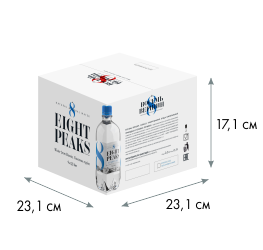
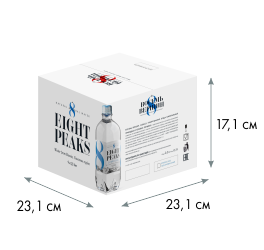
Catalog tabs

diff --git a/app/index.html b/app/index.html
@@ -178,17 +178,17 @@
             <div class="row">
                 <div class="col-lg-3 catalog-carousel">
                     <ul class="catalog-carousel__list">
-                        <li class="catalog-carousel__item catalog-carousel__item--active"><img src="images/dest/cat_menu_01.png" alt="" class="catalog-carousel__img"></li>
-                        <li class="catalog-carousel__item"><img src="images/dest/cat_menu_02.png" alt="" class="catalog-carousel__img"></li>
-                        <li class="catalog-carousel__item"><img src="images/dest/cat_menu_03.png" alt="" class="catalog-carousel__img"></li>
-                        <li class="catalog-carousel__item"><img src="images/dest/cat_menu_04.png" alt="" class="catalog-carousel__img"></li>
+                        <li class="catalog-carousel__item catalog-carousel__item--active js-tab-trigger_box" data-href="#content_box_1"><img src="images/dest/cat_menu_01.png" alt="" class="catalog-carousel__img"></li>
+                        <li class="catalog-carousel__item js-tab-trigger_box" data-href="#content_box_2"><img src="images/dest/cat_menu_02.png" alt="" class="catalog-carousel__img"></li>
+                        <li class="catalog-carousel__item js-tab-trigger_box" data-href="#content_box_3"><img src="images/dest/cat_menu_03.png" alt="" class="catalog-carousel__img"></li>
+                        <li class="catalog-carousel__item js-tab-trigger_box" data-href="#content_box_4"><img src="images/dest/cat_menu_04.png" alt="" class="catalog-carousel__img"></li>
                     </ul>
                 </div>
                 <div class="col-lg-8 ml-auto">
-                    <div class="catalog__content catalog__content--show" id="content_1">
+                    <div class="catalog__content catalog__content--show" id="content_box_1">
                         <div class="section-title catalog__section-title">
                             <h2 class="section-title__header catalog__section-header">Каталог</h2>
-                            <span class="section-title__under-header">Восемь вершин. Кавказ. Вода природная минеральная питьевая столовая.<br>
+                            <span class="section-title__under-header catalog__section-under-header">Восемь вершин. Кавказ. Вода природная минеральная питьевая столовая.<br>
                                 Гидрокарбонатная магниевая кальциевая.</span>
                         </div>
                         <div class="catalog-item">
@@ -201,7 +201,7 @@
                                     </div>                                
                                     <div class="catalog-item-elem">
                                         <span class="catalog-item-elem__img-header">6 х 0,5 л. / 5,12 кг.</span>
-                                        <img src="images/dest/cat_g_ng_05_pack.png" alt="" class="catalog-item__img">
+                                        <img src="images/dest/box_glass_ng_05.png" alt="" class="catalog-item__img">
                                         <span class="catalog-item-elem__img-desc">Групповая упаковка
                                             бутылок формата 0,5 л.</span>
                                     </div>                                
@@ -213,7 +213,7 @@
                                     </div>                                
                                     <div class="catalog-item-elem">
                                         <span class="catalog-item-elem__img-header">12 х 0,33 л. / 7,33 кг.</span>
-                                        <img src="images/dest/cat_g_ng_033_pack.png" alt="" class="catalog-item__img">
+                                        <img src="images/dest/box_glass_ng_033.png" alt="" class="catalog-item__img">
                                         <span class="catalog-item-elem__img-desc">Групповая упаковка
                                             бутылок формата 0,33л.</span>
                                     </div>                                
@@ -221,14 +221,14 @@
                             </div>
                         </div>
                     </div>
-                    <div class="catalog__content" id="content_2">
+                    <div class="catalog__content" id="content_box_2">
                         <div class="section-title catalog__section-title">
                             <h2 class="section-title__header catalog__section-header">Каталог</h2>
-                            <span class="section-title__under-header">Восемь вершин. Кавказ. Вода природная минеральная питьевая столовая.<br>
+                            <span class="section-title__under-header catalog__section-under-header">Восемь вершин. Кавказ. Вода природная минеральная питьевая столовая.<br>
                                 Гидрокарбонатная магниевая кальциевая.</span>
                         </div>
                         <div class="catalog-item">
-                            <h3 class="catalog-item__header">Негазированная серия. Стекло</h3>
+                            <h3 class="catalog-item__header">Газированная серия. Стекло</h3>
                             <div class="row">
                                 <div class="col-lg-5">
                                     <div class="catalog-item-elem">
@@ -237,7 +237,7 @@
                                     </div>                                
                                     <div class="catalog-item-elem">
                                         <span class="catalog-item-elem__img-header">6 х 0,5 л. / 5,12 кг.</span>
-                                        <img src="images/dest/cat_g_ng_05_pack.png" alt="" class="catalog-item__img">
+                                        <img src="images/dest/box_glass_g_05.png" alt="" class="catalog-item__img">
                                         <span class="catalog-item-elem__img-desc">Групповая упаковка
                                             бутылок формата 0,5 л.</span>
                                     </div>                                
@@ -249,7 +249,7 @@
                                     </div>                                
                                     <div class="catalog-item-elem">
                                         <span class="catalog-item-elem__img-header">12 х 0,33 л. / 7,33 кг.</span>
-                                        <img src="images/dest/cat_g_ng_033_pack.png" alt="" class="catalog-item__img">
+                                        <img src="images/dest/box_glass_g_033.png" alt="" class="catalog-item__img">
                                         <span class="catalog-item-elem__img-desc">Групповая упаковка
                                             бутылок формата 0,33л.</span>
                                     </div>                                
@@ -257,14 +257,14 @@
                             </div>
                         </div>
                     </div>
-                    <div class="catalog__content" id="content_3">
+                    <div class="catalog__content" id="content_box_3">
                         <div class="section-title catalog__section-title">
                             <h2 class="section-title__header catalog__section-header">Каталог</h2>
-                            <span class="section-title__under-header">Восемь вершин. Кавказ. Вода природная минеральная питьевая столовая.<br>
+                            <span class="section-title__under-header catalog__section-under-header">Восемь вершин. Кавказ. Вода природная минеральная питьевая столовая.<br>
                                 Гидрокарбонатная магниевая кальциевая.</span>
                         </div>
                         <div class="catalog-item">
-                            <h3 class="catalog-item__header">Негазированная серия. Стекло</h3>
+                            <h3 class="catalog-item__header">Негазированная серия. Пластик</h3>
                             <div class="row">
                                 <div class="col-lg-5">
                                     <div class="catalog-item-elem">
@@ -273,7 +273,7 @@
                                     </div>                                
                                     <div class="catalog-item-elem">
                                         <span class="catalog-item-elem__img-header">6 х 0,5 л. / 5,12 кг.</span>
-                                        <img src="images/dest/cat_g_ng_05_pack.png" alt="" class="catalog-item__img">
+                                        <img src="images/dest/box_pet_ng_05.png" alt="" class="catalog-item__img">
                                         <span class="catalog-item-elem__img-desc">Групповая упаковка
                                             бутылок формата 0,5 л.</span>
                                     </div>                                
@@ -285,7 +285,7 @@
                                     </div>                                
                                     <div class="catalog-item-elem">
                                         <span class="catalog-item-elem__img-header">12 х 0,33 л. / 7,33 кг.</span>
-                                        <img src="images/dest/cat_g_ng_033_pack.png" alt="" class="catalog-item__img">
+                                        <img src="images/dest/box_pet_ng_039.png" alt="" class="catalog-item__img">
                                         <span class="catalog-item-elem__img-desc">Групповая упаковка
                                             бутылок формата 0,33л.</span>
                                     </div>                                
@@ -293,14 +293,14 @@
                             </div>
                         </div>
                     </div>
-                    <div class="catalog__content" id="content_4">
+                    <div class="catalog__content" id="content_box_4">
                         <div class="section-title catalog__section-title">
                             <h2 class="section-title__header catalog__section-header">Каталог</h2>
-                            <span class="section-title__under-header">Восемь вершин. Кавказ. Вода природная минеральная питьевая столовая.<br>
+                            <span class="section-title__under-header catalog__section-under-header">Восемь вершин. Кавказ. Вода природная минеральная питьевая столовая.<br>
                                 Гидрокарбонатная магниевая кальциевая.</span>
                         </div>
                         <div class="catalog-item">
-                            <h3 class="catalog-item__header">Негазированная серия. Стекло</h3>
+                            <h3 class="catalog-item__header">Газированная серия. Пластик</h3>
                             <div class="row">
                                 <div class="col-lg-5">
                                     <div class="catalog-item-elem">
@@ -309,7 +309,7 @@
                                     </div>                                
                                     <div class="catalog-item-elem">
                                         <span class="catalog-item-elem__img-header">6 х 0,5 л. / 5,12 кг.</span>
-                                        <img src="images/dest/cat_g_ng_05_pack.png" alt="" class="catalog-item__img">
+                                        <img src="images/dest/box_pet_g_05.png" alt="" class="catalog-item__img">
                                         <span class="catalog-item-elem__img-desc">Групповая упаковка
                                             бутылок формата 0,5 л.</span>
                                     </div>                                
@@ -321,7 +321,7 @@
                                     </div>                                
                                     <div class="catalog-item-elem">
                                         <span class="catalog-item-elem__img-header">12 х 0,33 л. / 7,33 кг.</span>
-                                        <img src="images/dest/cat_g_ng_033_pack.png" alt="" class="catalog-item__img">
+                                        <img src="images/dest/box_pet_g_039.png" alt="" class="catalog-item__img">
                                         <span class="catalog-item-elem__img-desc">Групповая упаковка
                                             бутылок формата 0,33л.</span>
                                     </div>                                
@@ -519,14 +519,18 @@
                             </svg>                             
                         </a>
                         <a class="social-icons__link" href="https://www.facebook.com/eightpeaks_water-113757986849715" target="_blank">
-                            <svg id="svg-icon-fb" viewBox="0 0 6.5 13" width="67" height="67">
-                                <path d="M4.215 2.437c.102-.135.347-.203.736-.203H6.5V0H4.266C3.25 0 2.556.241 2.184.724c-.373.482-.559 1.223-.559 2.221v1.32H0V6.5h1.625V13h2.438V6.5h2.209L6.5 4.266H4.063V3.148c0-.338.05-.575.152-.711z" fill-rule="evenodd" clip-rule="evenodd"></path>
-                            </svg>                          
+                            <svg version="1.1" id="Capa_1" xmlns="http://www.w3.org/2000/svg" xmlns:xlink="http://www.w3.org/1999/xlink" x="0px" y="0px"
+                                width="67" height="67" viewBox="0 0 97.75 97.75" style="enable-background:new 0 0 97.75 97.75;" xml:space="preserve"
+                                >
+                            <g>
+                                <path d="M48.875,0C21.882,0,0,21.882,0,48.875S21.882,97.75,48.875,97.75S97.75,75.868,97.75,48.875S75.868,0,48.875,0z
+                                    M67.521,24.89l-6.76,0.003c-5.301,0-6.326,2.519-6.326,6.215v8.15h12.641L67.07,52.023H54.436v32.758H41.251V52.023H30.229V39.258
+                                    h11.022v-9.414c0-10.925,6.675-16.875,16.42-16.875l9.851,0.015V24.89L67.521,24.89z"/>
+                            </g>
+                            </svg>                         
                         </a>
                         <a class="social-icons__link" href="https://www.instagram.com/eightpeaks_water/?hl=ru" target="_blank">
-                            <svg id="svg-icon-insta" viewBox="0 0 13 13" width="67" height="67">
-                                <path d="M12.822.178A.557.557 0 0 0 12.416 0H.584a.557.557 0 0 0-.406.178A.557.557 0 0 0 0 .584v11.832c0 .152.059.288.178.406A.56.56 0 0 0 .584 13h11.832a.56.56 0 0 0 .406-.178.557.557 0 0 0 .178-.406V.584a.557.557 0 0 0-.178-.406zM4.9 4.9c.44-.44.973-.66 1.6-.66.626 0 1.159.22 1.6.66.44.44.66.974.66 1.6 0 .626-.22 1.16-.66 1.6-.44.44-.974.66-1.6.66a2.18 2.18 0 0 1-1.6-.66 2.18 2.18 0 0 1-.66-1.6c0-.626.22-1.159.66-1.6zm6.475 6.475h-9.75V5.688h1.066c-.05.27-.076.541-.076.812 0 1.066.381 1.98 1.143 2.742s1.676 1.143 2.742 1.143 1.98-.381 2.742-1.143 1.143-1.676 1.143-2.742c0-.271-.025-.542-.076-.813h1.066v5.688zm0-7.313H8.938V1.625h2.438v2.437z" fill-rule="evenodd" clip-rule="evenodd"></path>
-                            </svg>                          
+                            <svg height="67" viewBox="0 0 512 512" width="67" xmlns="http://www.w3.org/2000/svg"><path d="m305 256c0 27.0625-21.9375 49-49 49s-49-21.9375-49-49 21.9375-49 49-49 49 21.9375 49 49zm0 0"/><path d="m370.59375 169.304688c-2.355469-6.382813-6.113281-12.160157-10.996094-16.902344-4.742187-4.882813-10.515625-8.640625-16.902344-10.996094-5.179687-2.011719-12.960937-4.40625-27.292968-5.058594-15.503906-.707031-20.152344-.859375-59.402344-.859375-39.253906 0-43.902344.148438-59.402344.855469-14.332031.65625-22.117187 3.050781-27.292968 5.0625-6.386719 2.355469-12.164063 6.113281-16.902344 10.996094-4.882813 4.742187-8.640625 10.515625-11 16.902344-2.011719 5.179687-4.40625 12.964843-5.058594 27.296874-.707031 15.5-.859375 20.148438-.859375 59.402344 0 39.25.152344 43.898438.859375 59.402344.652344 14.332031 3.046875 22.113281 5.058594 27.292969 2.359375 6.386719 6.113281 12.160156 10.996094 16.902343 4.742187 4.882813 10.515624 8.640626 16.902343 10.996094 5.179688 2.015625 12.964844 4.410156 27.296875 5.0625 15.5.707032 20.144532.855469 59.398438.855469 39.257812 0 43.90625-.148437 59.402344-.855469 14.332031-.652344 22.117187-3.046875 27.296874-5.0625 12.820313-4.945312 22.953126-15.078125 27.898438-27.898437 2.011719-5.179688 4.40625-12.960938 5.0625-27.292969.707031-15.503906.855469-20.152344.855469-59.402344 0-39.253906-.148438-43.902344-.855469-59.402344-.652344-14.332031-3.046875-22.117187-5.0625-27.296874zm-114.59375 162.179687c-41.691406 0-75.488281-33.792969-75.488281-75.484375s33.796875-75.484375 75.488281-75.484375c41.6875 0 75.484375 33.792969 75.484375 75.484375s-33.796875 75.484375-75.484375 75.484375zm78.46875-136.3125c-9.742188 0-17.640625-7.898437-17.640625-17.640625s7.898437-17.640625 17.640625-17.640625 17.640625 7.898437 17.640625 17.640625c-.003906 9.742188-7.898437 17.640625-17.640625 17.640625zm0 0"/><path d="m256 0c-141.363281 0-256 114.636719-256 256s114.636719 256 256 256 256-114.636719 256-256-114.636719-256-256-256zm146.113281 316.605469c-.710937 15.648437-3.199219 26.332031-6.832031 35.683593-7.636719 19.746094-23.246094 35.355469-42.992188 42.992188-9.347656 3.632812-20.035156 6.117188-35.679687 6.832031-15.675781.714844-20.683594.886719-60.605469.886719-39.925781 0-44.929687-.171875-60.609375-.886719-15.644531-.714843-26.332031-3.199219-35.679687-6.832031-9.8125-3.691406-18.695313-9.476562-26.039063-16.957031-7.476562-7.339844-13.261719-16.226563-16.953125-26.035157-3.632812-9.347656-6.121094-20.035156-6.832031-35.679687-.722656-15.679687-.890625-20.6875-.890625-60.609375s.167969-44.929688.886719-60.605469c.710937-15.648437 3.195312-26.332031 6.828125-35.683593 3.691406-9.808594 9.480468-18.695313 16.960937-26.035157 7.339844-7.480469 16.226563-13.265625 26.035157-16.957031 9.351562-3.632812 20.035156-6.117188 35.683593-6.832031 15.675781-.714844 20.683594-.886719 60.605469-.886719s44.929688.171875 60.605469.890625c15.648437.710937 26.332031 3.195313 35.683593 6.824219 9.808594 3.691406 18.695313 9.480468 26.039063 16.960937 7.476563 7.34375 13.265625 16.226563 16.953125 26.035157 3.636719 9.351562 6.121094 20.035156 6.835938 35.683593.714843 15.675781.882812 20.683594.882812 60.605469s-.167969 44.929688-.886719 60.605469zm0 0"/></svg>                          
                         </a>
                     </div>
                 </div>

diff --git a/app/css/styles.min.css b/app/css/styles.min.css
@@ -3670,10 +3670,12 @@ body {
 h2 {
   text-align: center;
   font-size: 40px;
-  font-weight: 700; }
+  font-weight: 700;
+  letter-spacing: 1px; }
 
 h3 {
-  margin: 0; }
+  margin: 0;
+  letter-spacing: 1px; }
 
 p {
   color: #8e8d8d;
@@ -3912,9 +3914,15 @@ button, .button {
   width: 100%;
   margin-top: 140px; }
   .catalog__section-title {
-    margin-top: 0; }
+    margin-top: 0;
+    margin-bottom: 32px; }
   .catalog__section-header {
-    margin-top: 0; }
+    margin-top: 0;
+    text-transform: uppercase;
+    letter-spacing: 1px;
+    margin-bottom: 20px; }
+  .catalog__section-under-header {
+    letter-spacing: 1px; }
   .catalog__content {
     display: none; }
     .catalog__content--show {
@@ -3928,7 +3936,7 @@ button, .button {
 .catalog-item-elem {
   margin-bottom: 90px; }
   .catalog-item-elem__img {
-    margin-bottom: 60px; }
+    margin-bottom: 34px; }
   .catalog-item-elem__img-desc {
     color: #8e8d8d; }
 
@@ -4222,7 +4230,8 @@ button, .button {
   .contact-form__input {
     border: none;
     background-color: transparent;
-    font-size: 16px; }
+    font-size: 16px;
+    width: 100%; }
     .contact-form__input:focus {
       outline: none; }
   .contact-form__button {

diff --git a/app/js/script.min.js b/app/js/script.min.js
@@ -685,11 +685,12 @@
 
 })(jQuery);
 
+//tabs waterfall
 $('.js-tab-trigger').click(function(e) {
     e.preventDefault();
 
     var id = $(this).attr('href'),
-        content = $(id);    
+        content = $(id);
     
     $('.tabs__link--acitve').removeClass('tabs__link--acitve');
     $(this).addClass('tabs__link--acitve');
@@ -698,7 +699,21 @@ $('.js-tab-trigger').click(function(e) {
     content.addClass('tabs__content--show');    
  });
 
- 
+ //tabs catalog
+ $('.js-tab-trigger_box').click(function(e) {
+    e.preventDefault();
+
+    var id = $(this).data('href'),
+        content = $(id);
+    
+    $('.catalog-carousel__item--active').removeClass('catalog-carousel__item--active');
+    $(this).addClass('catalog-carousel__item--active');
+    
+    $('.catalog__content--show').removeClass('catalog__content--show');
+    content.addClass('catalog__content--show');    
+ });
+
+// carousel
 $("#carousel").waterwheelCarousel({
     flankingItems: 3,
     separation: 350,

diff --git a/app/js/script.js b/app/js/script.js
@@ -1,8 +1,9 @@
+//tabs waterfall
 $('.js-tab-trigger').click(function(e) {
     e.preventDefault();
 
     var id = $(this).attr('href'),
-        content = $(id);    
+        content = $(id);
     
     $('.tabs__link--acitve').removeClass('tabs__link--acitve');
     $(this).addClass('tabs__link--acitve');
@@ -11,7 +12,21 @@ $('.js-tab-trigger').click(function(e) {
     content.addClass('tabs__content--show');    
  });
 
- 
+ //tabs catalog
+ $('.js-tab-trigger_box').click(function(e) {
+    e.preventDefault();
+
+    var id = $(this).data('href'),
+        content = $(id);
+    
+    $('.catalog-carousel__item--active').removeClass('catalog-carousel__item--active');
+    $(this).addClass('catalog-carousel__item--active');
+    
+    $('.catalog__content--show').removeClass('catalog__content--show');
+    content.addClass('catalog__content--show');    
+ });
+
+// carousel
 $("#carousel").waterwheelCarousel({
     flankingItems: 3,
     separation: 350,

diff --git a/app/scss/main.scss b/app/scss/main.scss
@@ -187,9 +187,16 @@
     margin-top: 140px;
     &__section-title{
         margin-top: 0;
+        margin-bottom: 32px;
     }
     &__section-header{
         margin-top: 0;
+        text-transform: uppercase;
+        letter-spacing: 1px;
+        margin-bottom: 20px;
+    }
+    &__section-under-header{
+        letter-spacing: 1px;
     }
     &__content{
         display: none;
@@ -209,7 +216,7 @@
 .catalog-item-elem{
     margin-bottom: 90px;
     &__img{
-        margin-bottom: 60px;
+        margin-bottom: 34px;
     }
     &__img-desc{
         color: $textColorLight;        
@@ -532,6 +539,7 @@
         border: none;
         background-color: transparent;
         font-size: 16px;
+        width: 100%;
         &:focus{
             outline: none;
         }    

diff --git a/app/scss/_config.scss b/app/scss/_config.scss
@@ -22,17 +22,19 @@ $gray: #e1e1e1;
 body{
     font-family: $tinos;
 	font-size: $fontsize;
-	color: $textColor;
+    color: $textColor;
 }
 
 h2{
     text-align: center;
     font-size: 40px;
     font-weight: 700;
+    letter-spacing: 1px;
 }
 
 h3{
     margin: 0;
+    letter-spacing: 1px;
 }
 
 p{
